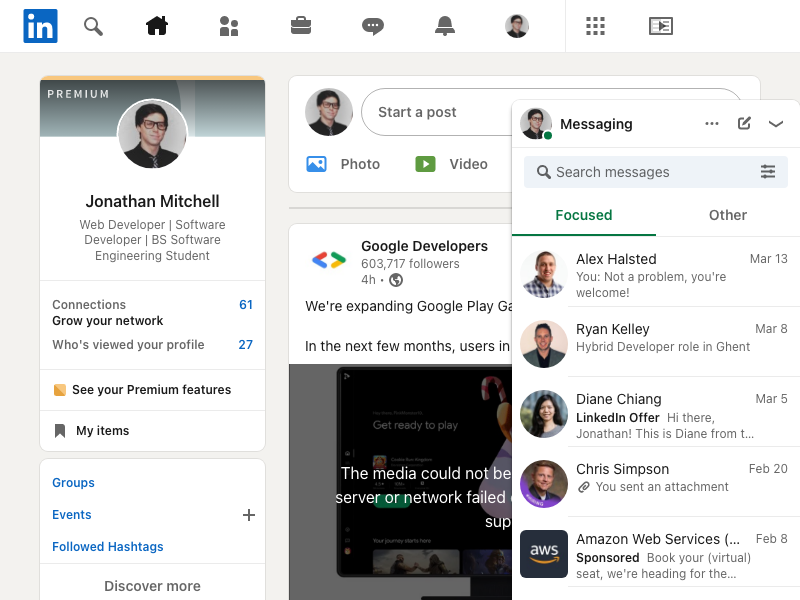
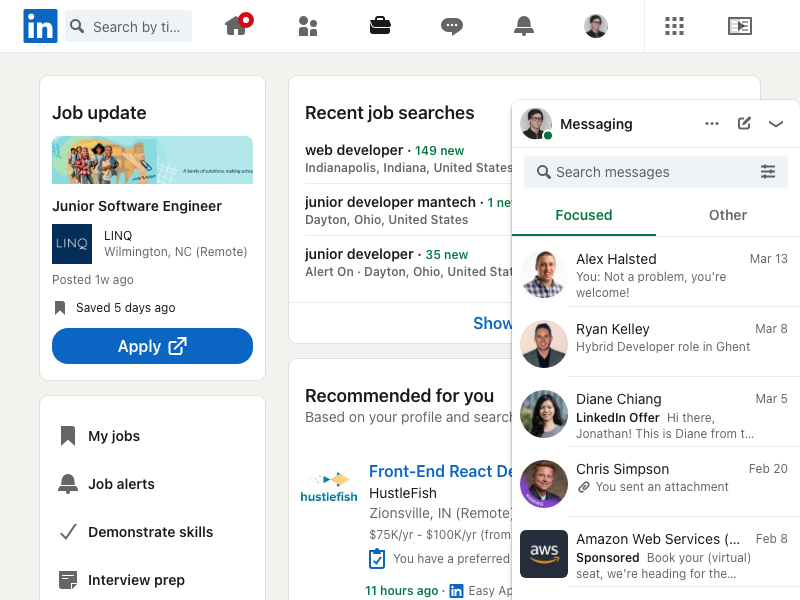
added navigation to jobs page

diff --git a/bot.js b/bot.js
@@ -19,7 +19,12 @@ require("dotenv").config();
 
 	// Wait for the page to load after logging in
 	await page.waitForNavigation();
-	await page.waitForTimeout(5000);
+
+	// Navigate to the Jobs page
+	await page.goto("https://www.linkedin.com/jobs/");
+
+    await page.waitForTimeout(5000);
+	
 
 	// Take a screenshot of the logged-in homepage
 	await page.screenshot({ path: "linkedin_homepage.png" });
